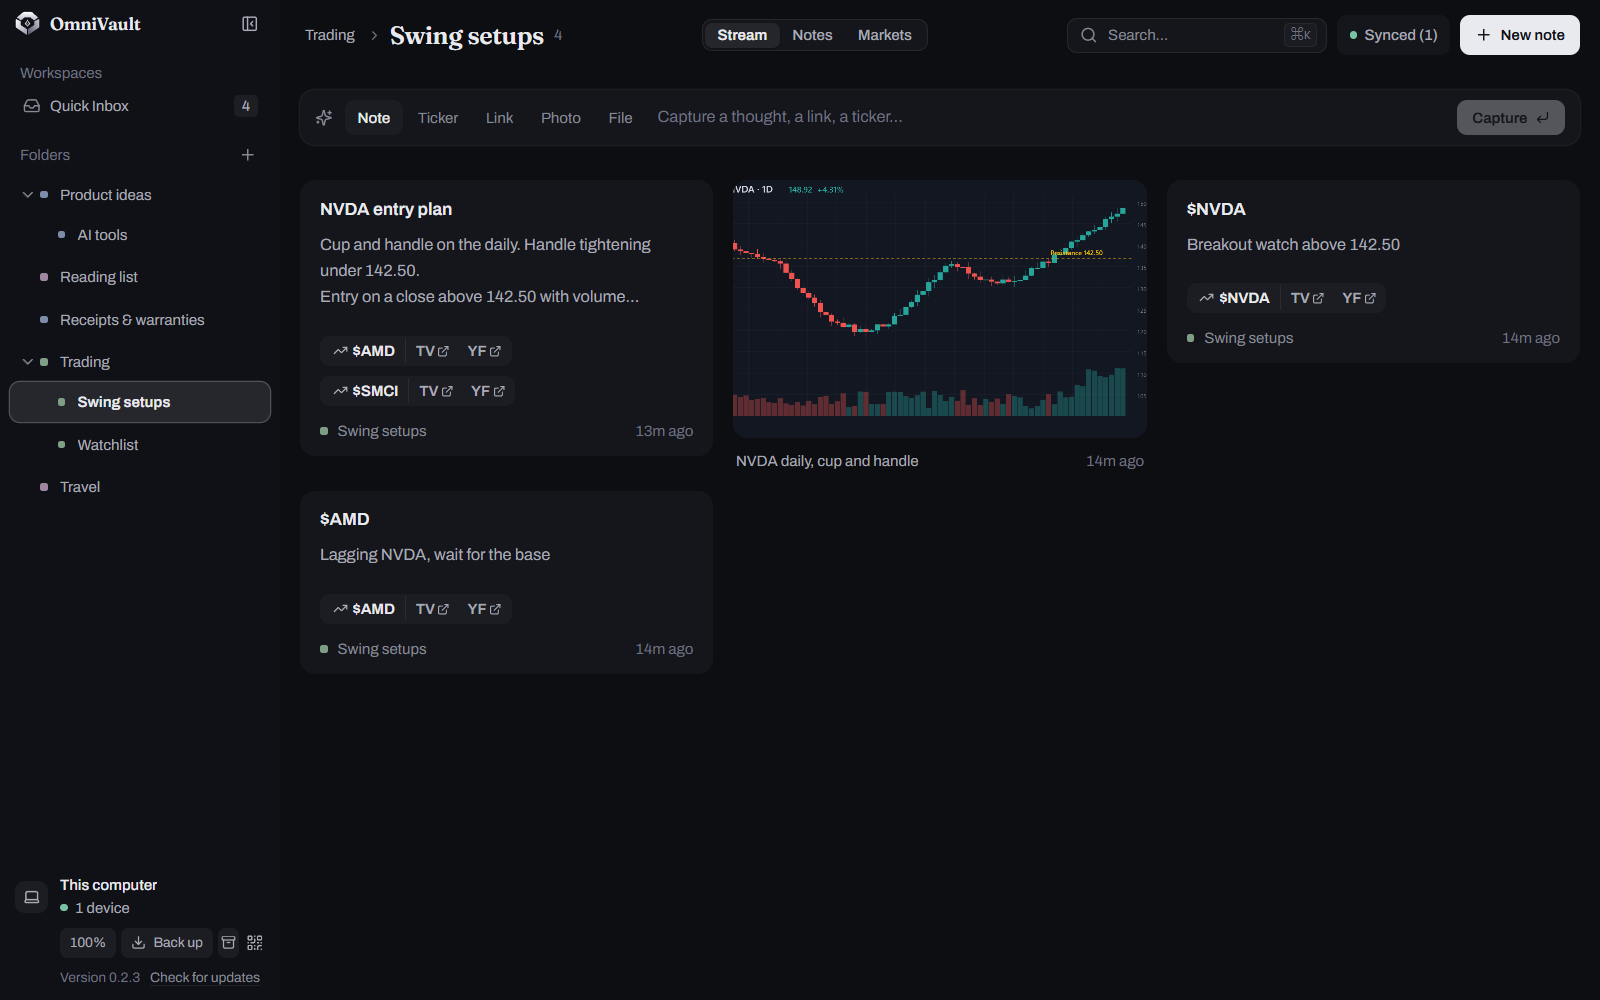
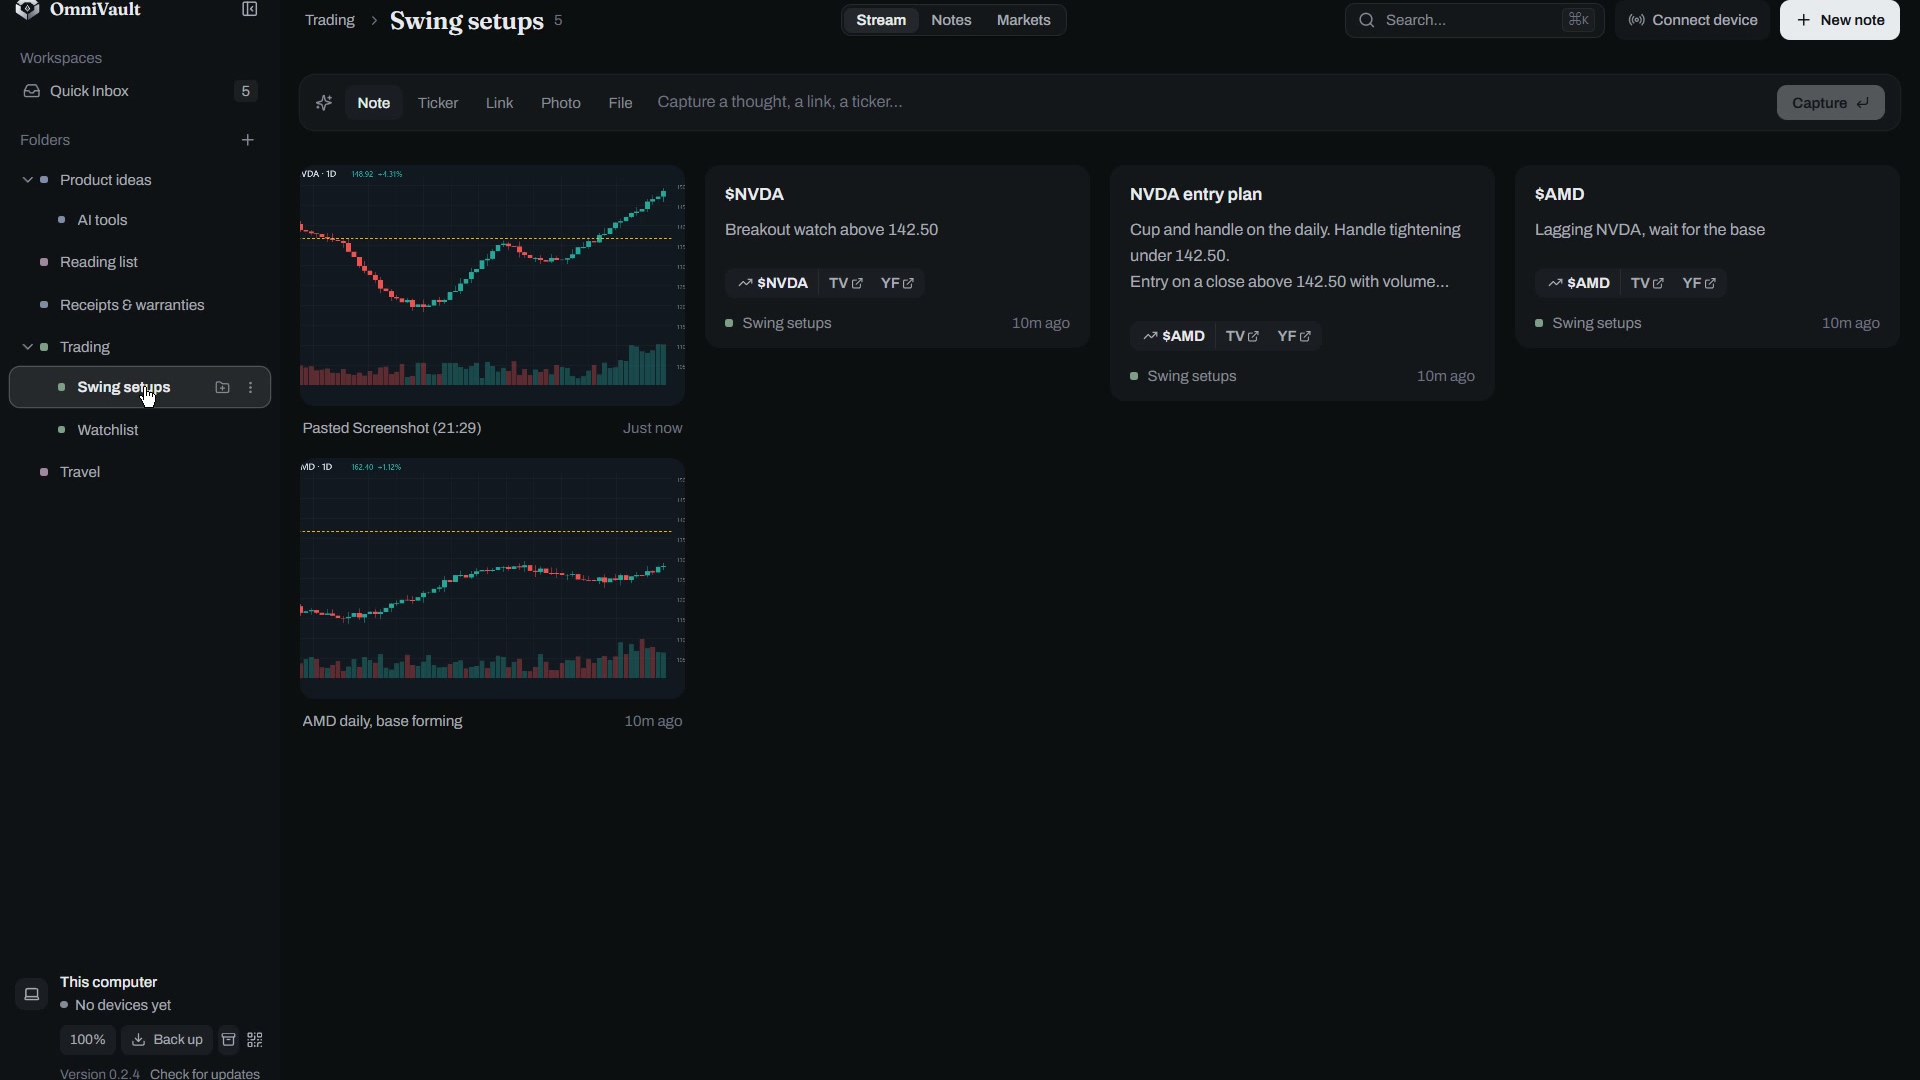
docs: new demo GIF, fresh screenshots, a clearer intro and an FAQ in the README

diff --git a/README.md b/README.md
@@ -1,9 +1,9 @@
-<p align="center">
+<h1 align="center">
   <picture>
     <source media="(prefers-color-scheme: dark)" srcset="docs/assets/logo-dark.png">
     <img src="docs/assets/logo-light.png" alt="OmniVault" width="600">
   </picture>
-</p>
+</h1>
 
 <p align="center">
   <b>Your own "message yourself" chat, minus the cloud.</b><br>
@@ -19,19 +19,22 @@
 </p>
 
 <p align="center">
-  <img src="docs/assets/demo.svg" alt="A note captured on a phone appears in the right folder on a laptop once both are on the same Wi-Fi" width="100%">
+  <img src="docs/assets/demo.gif" alt="OmniVault demo: a note typed on an Android phone appears on a Windows laptop over Wi-Fi, then capturing notes and tickers, pasting a screenshot, dragging it into a folder and editing Markdown with live preview" width="100%">
 </p>
 
 <p align="center">
   <a href="https://github.com/webtools-dotcom/OmniVault/releases/latest"><b>Download for Windows or Android</b></a>
+  &nbsp;·&nbsp; <a href="https://webtools-dotcom.github.io/OmniVault/"><b>Website</b></a>
   &nbsp;·&nbsp; No iPhone or Mac app needed: open it in a browser on the same Wi-Fi
 </p>
 
 ---
 
-OmniVault is a private, local-first vault for the notes, links, screenshots and
-files you send between your own devices. Every device keeps a complete copy,
-and devices on the same Wi-Fi find each other and sync on their own.
+**OmniVault is a free, open-source, local-first notes app that syncs notes,
+links, screenshots and files between your Android phone and your Windows PC over
+Wi-Fi.** It works peer to peer: no cloud, no server and no account. Every device
+keeps a complete copy, and devices on the same network find each other and sync
+on their own.
 
 ## Why
 
@@ -63,11 +66,12 @@ not over the internet.
 **Folders for everything.** Notes, screenshots, links and tickers, nested as
 deep as you like.
 
-<img src="docs/assets/screenshots/desktop-folders.png" alt="The desktop app showing nested folders and a folder with a chart screenshot, a note and ticker cards" width="100%">
+<img src="docs/assets/screenshots/desktop-folders.png" alt="OmniVault on Windows: nested folders and a trading folder with chart screenshots, a note and ticker cards" width="100%">
 
-**On your phone.** The same vault, synced from the laptop over Wi-Fi.
+**Save on your phone, open it on your laptop.** A note captured on the phone
+shows up in the laptop's inbox a moment later, over the same Wi-Fi.
 
-<img src="docs/assets/screenshots/phone.png" alt="Three phone screens: the quick inbox with the capture bar, the folder drawer, and a folder synced from the laptop" width="100%">
+<img src="docs/assets/screenshots/phone-to-laptop.png" alt="A note captured on an Android phone appearing in the OmniVault inbox on a Windows laptop" width="100%">
 
 **A Markdown editor** with a formatting toolbar, live preview and autosave.
 Tickers become one-tap links to TradingView and Yahoo Finance.
@@ -183,6 +187,36 @@ SQLite database for an exact restore. The Markdown needs no app to read.
 Back up before updating. If an Android build were ever signed with a different
 key, it could not be installed over the existing one, and uninstalling deletes
 the vault.
+
+## FAQ
+
+**How do I get notes from my Android phone to my Windows PC without the cloud?**
+Install OmniVault on both, put them on the same Wi-Fi (or the phone's hotspot)
+and tap _Connect_. Anything you save on one appears on the other, directly over
+your network.
+
+**Is it an alternative to messaging myself on WhatsApp or Telegram?**
+That is exactly why it exists: the same quick capture, but organised into
+folders and kept on your own devices instead of a chat server.
+
+**How is it different from LocalSend or KDE Connect?**
+Those send a file from one device to another while both are open. OmniVault
+keeps a synced, organised vault: the other device can be off when you save
+something, and it catches up the next time both are on the same network.
+
+**Does it work without internet?**
+Yes. It only needs the devices to share a local network. Your notes never go
+to the internet; the only request that does is the update check, and it runs
+only when you press _Check for updates_.
+
+**Can I use it on an iPhone or a Mac?**
+There is no native app for them, but they can open OmniVault in a browser on the
+same network: turn on _Allow browser access_ under _Connect_ on the Windows or
+Android device and scan the QR code.
+
+**Where is my data stored?**
+In a SQLite database and a media folder on each device. _Back up_ exports
+everything as plain Markdown files, so your notes stay readable without the app.
 
 ## License
 
